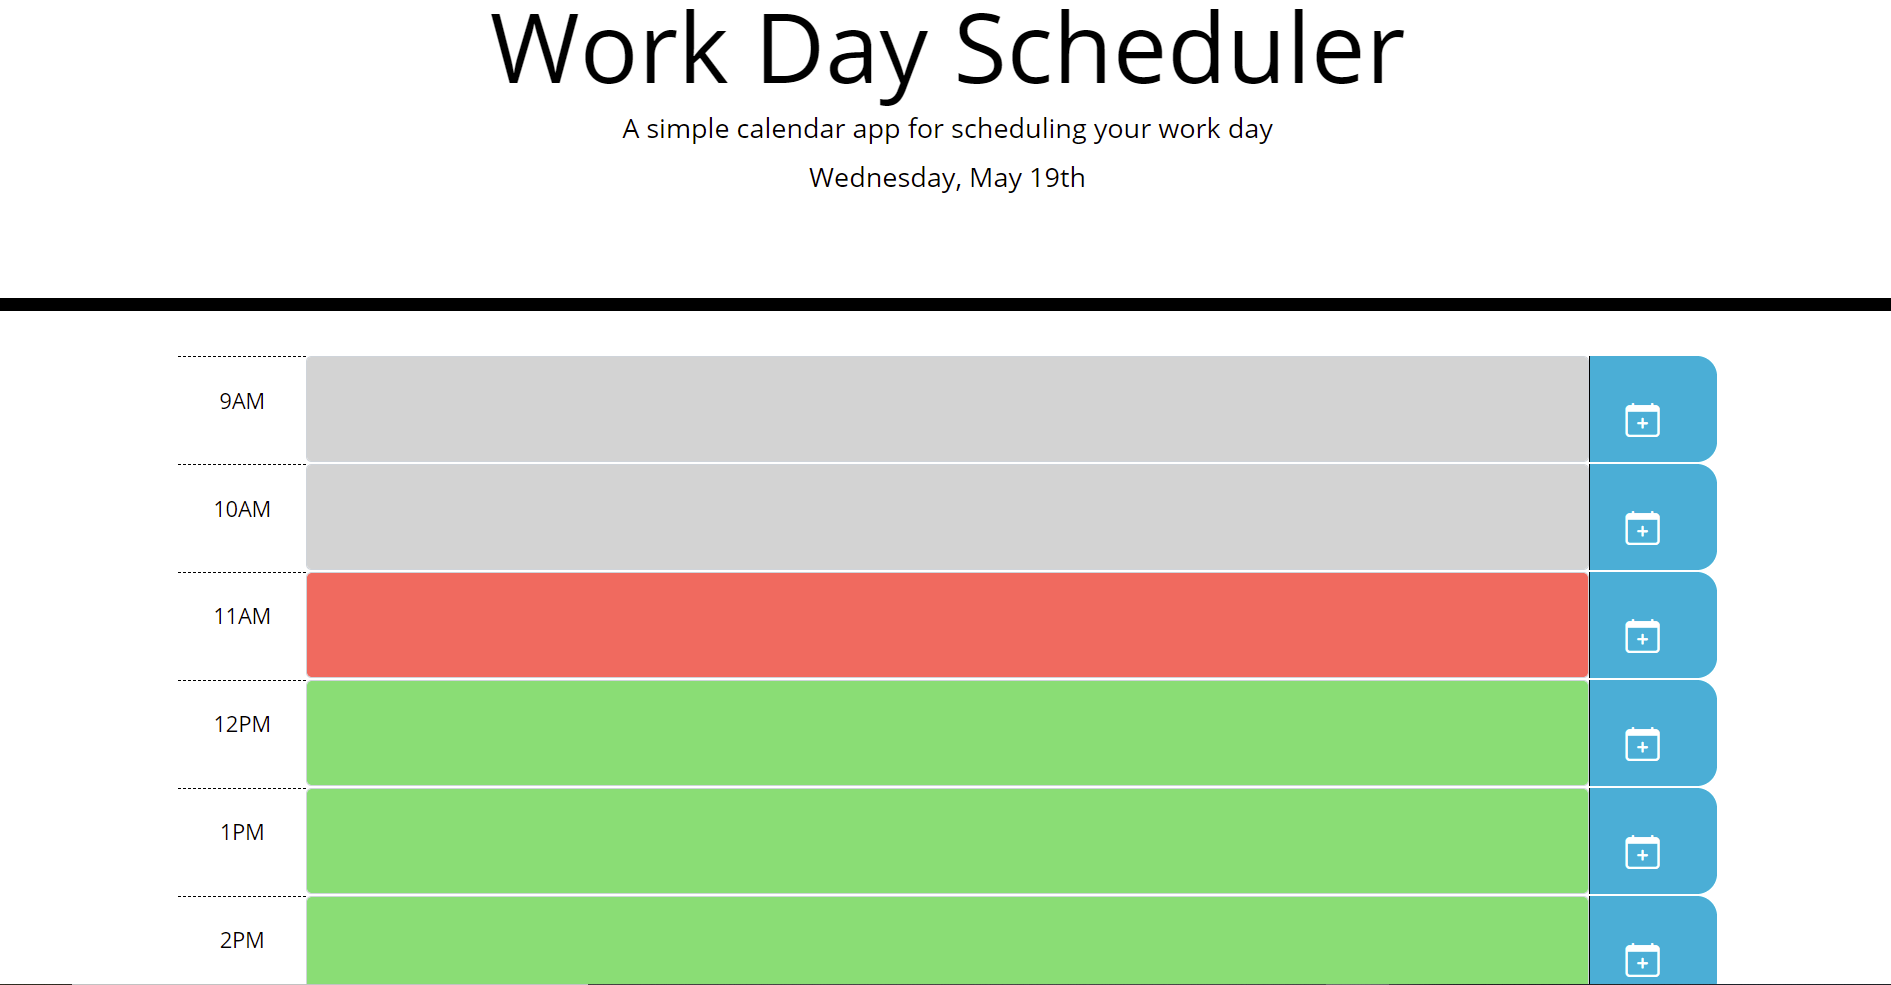
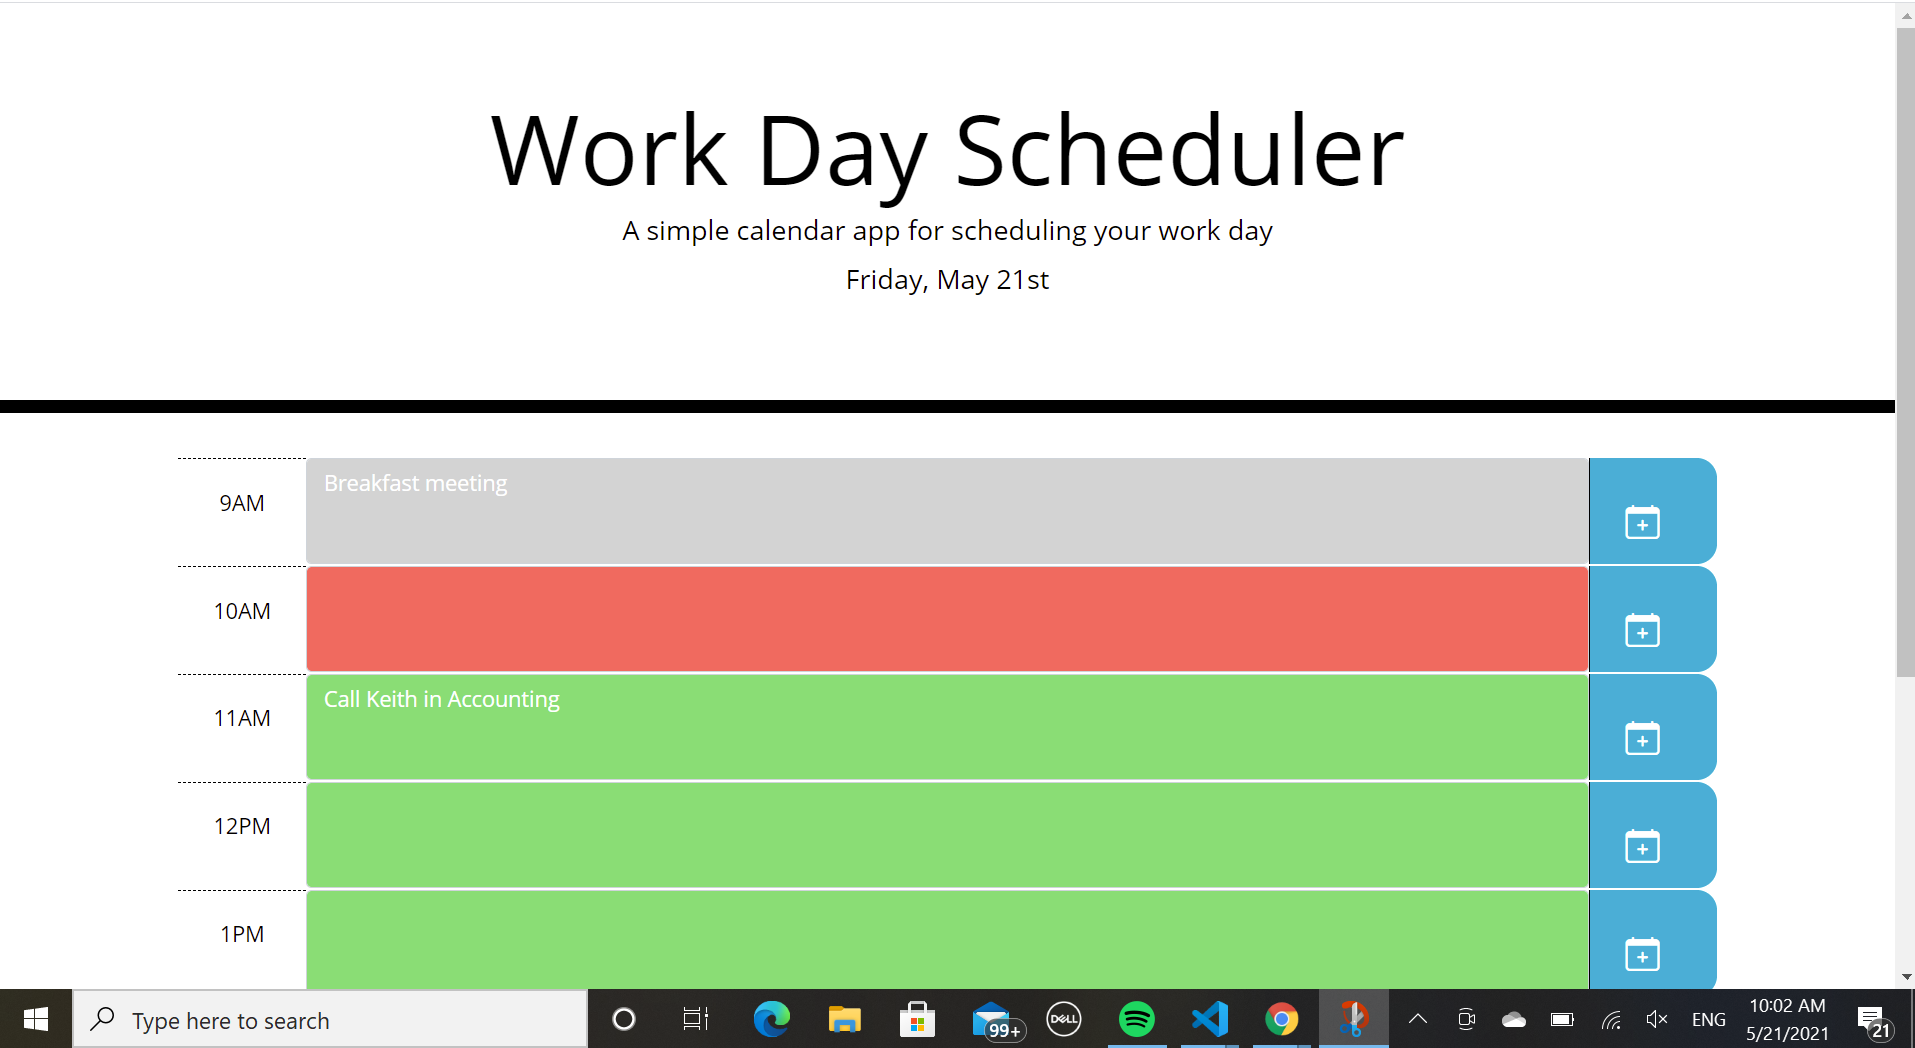
finished README ad updated pictures also added notes to HTML and rest of JS

Changed region(s): [[0.0, 0.0, 1.0, 1.0]]

diff --git a/index.html b/index.html
@@ -27,116 +27,88 @@
     <header class="jumbotron">
       <h1 class="display-3">Work Day Scheduler</h1>
       <p class="lead">A simple calendar app for scheduling your work day</p>
+      <!-- the today moment.js function connects here at "currentDay"-->
       <p id="currentDay" class="lead"></p>
     </header>
+    
+    <!-- grandparent container for body of webpage -->
       <div class="container">
-
+        <!-- one of the 9 parent "rows" for each block of time -->
         <div id="block-9" class="row time-block">
-
+          <!-- child 1 - part of first column in row one, for 9am -->
           <div id="9am" class="hour col-1 text-center time p-4">9AM</div>
-
+          <!-- child 2 - input area for hour 9'd work-day events -->
           <textarea id="text-9" class=" description form-control col-10" aria-label="With textarea"></textarea>
-
+          <!-- child 3 - button for hour 9's input -->
           <a id="btn9" type="button" class="col-1 saveBtn btn-info">
             <i class="bi bi-calendar-plus"></i>    
           </a>
 
         </div>
-
+        <!-- all the parent rows and children are structured the same as 9am just
+        with different ids to specificy which time-block they are in. -->
         <div id="block-10" class="row time-block">
-
           <div id="10am" class="hour col-1 text-center time p-4">10AM</div>
-
           <textarea id="text-10" class="description form-control col-10" aria-label="With textarea"></textarea>
-
           <a id="btn10" type="button" class="col-1 saveBtn btn-info">
             <i class="bi bi-calendar-plus"></i>    
           </a>
-
         </div>
         
         <div id="block-11" class="row time-block">
-        
           <div id="11am" class="hour col-1 text-center time p-4">11AM</div>
-
           <textarea id="text-11"  class="description form-control col-10" aria-label="With textarea"></textarea>
-
           <a id="btn11" type="button" class="col-1 saveBtn btn-info">
             <i class="bi bi-calendar-plus"></i>    
           </a>
-
         </div>
 
         <div id="block-12" class="row time-block">
-        
           <div id="12am" class="hour col-1 text-center time p-4">12PM</div>
-
           <textarea id="text-12" class="description form-control col-10" aria-label="With textarea"></textarea>
-
           <a id="btn12" type="button" class="col-1 saveBtn btn-info">
             <i class="bi bi-calendar-plus"></i>    
           </a>
-
         </div>
 
         <div id="block-13" class="row time-block">
-        
           <div id="1pm" class="hour col-1 text-center time p-4">1PM</div>
-
           <textarea id="text-13" class="description form-control col-10" aria-label="With textarea"></textarea>
-
           <a id="btn1" type="button" class="col-1 saveBtn btn-info">
             <i class="bi bi-calendar-plus"></i>    
           </a>
-
         </div>
 
         <div id="block-14" class="row time-block">
-        
           <div id="2pm" class="hour col-1 text-center time p-4">2PM</div>
-
           <textarea id="text-14" class="description form-control col-10" aria-label="With textarea"></textarea>
-
           <a id="btn2" type="button" class="col-1 saveBtn btn-info">
             <i class="bi bi-calendar-plus"></i>    
           </a>
-
         </div>
 
         <div id="block-15" class="row time-block">
-        
           <div id="3pm" class="hour col-1 text-center time p-4">3PM</div>
-
           <textarea id="text-15" class="description form-control col-10" aria-label="With textarea"></textarea>
-
           <a id="btn3" type="button" class="col-1 saveBtn btn-info">
             <i class="bi bi-calendar-plus"></i>    
           </a>
-
         </div>
 
         <div id="block-16" class="row time-block">
-        
           <div id="4pm" class="hour col-1 text-center time p-4">4PM</div>
-
           <textarea id="text-16" class="description form-control col-10" aria-label="With textarea"></textarea>
-
           <a id="btn4" type="button" class="col-1 saveBtn btn-info">
             <i class="bi bi-calendar-plus"></i>    
           </a>
-
         </div>
 
         <div id="block-17" class="row time-block">
-        
           <div id="5pm" class="hour col-1 text-center time p-4">5PM</div>
-
           <textarea id="text-17" class="description form-control col-10" aria-label="With textarea"></textarea>
-
           <a id="btn5" type="button" class="col-1 saveBtn btn-info">
             <i class="bi bi-calendar-plus"></i>    
           </a>
-
         </div>
 
       </div>

diff --git a/js/script.js b/js/script.js
@@ -42,26 +42,36 @@ function changeBackgroundColor() {
 
 changeBackgroundColor()
 
-
-    $(".saveBtn").click(function(event) {
-        event.preventDefault();
-                
-        var rowParent = $(this).parent();
-        var textChild = $(rowParent).children(".description")
-        var textID = ($(textChild).attr("id"))
-        var eventText = ($(textChild).val());
-        
-        localStorage.setItem(textID, eventText)
+// add an eventlistner(click) to all buttons with class "saveBtn"
+$(".saveBtn").click(function(event) {
+    event.preventDefault();
+    // used this to refer to "saveBtn" to grab the parent which are the "row" divs
+    var rowParent = $(this).parent();
+    // from the rowParent's i want to grab the children with the class "description"
+    var textChild = $(rowParent).children(".description")
+    // from the all of the div's with ".description" I need to set their ids to a var
+    var textID = ($(textChild).attr("id"))
+    // from the all of the div's with ".description" I need to get the input values
+    var eventText = ($(textChild).val());
+    
+    // I can set the textID and eventText as key, value pairs in localStorage
+    localStorage.setItem(textID, eventText)
 
 })
 
-
+// grab values from localStorage and display them on webpage
 function displayLocalStorage () {
+    // i starts at 9 because of the work hours and is less than 18 bc of miliary time
     for(var i = 9; i < 18; i++) {
-    var keyName = "text-" + i;
-    var displayTask = localStorage.getItem(keyName);
-    var keySelector = "#" + keyName;
-    $(keySelector).append(displayTask);
+        //to get the specifc key from local storage I need to add "text-" and "i"
+        var keyName = "text-" + i;
+        // then i can plug in keyName to localStorage.getItem to get the values
+        var displayTask = localStorage.getItem(keyName);
+        // to make keyName a callable Id in jQuery I need to add "#" before it
+        var keySelector = "#" + keyName;
+        // now i can append the correct values(displayTask) to the correct keySelector
+        // (or id) in HTML and have it display on the webpage
+        $(keySelector).append(displayTask);
 }
 }
 

diff --git a/README.md b/README.md
@@ -4,42 +4,46 @@
 https://ksfallon.github.io/Work-Day-Scheduler/
 
 ## Homework Assignment 
-1. create a work day calendar, 9am through 5pm, made from 3 columns, and a row to represent each hour. The first column on the left is for each hour. The second column is for the hour specific event input. The final column is a button that saves the event input. 
-2. Based on the current time of day the even input area will change color if it is in the: past(gray), present(red), future(green).
+1. Create a work day calendar, 9am through 5pm, made from 3 columns, and a row to represent each hour. The first column on the left is for each hour. The middle column is for the hour specific event input. The final column is a button that saves the event input. 
+2. Based on the current time of day the event input area will change color if it is in the: past(gray), present(red), future(green).
 3. The buttons will save the event input and the event input should stay on the page even when refreshed. It can also be changed/updated.
 4. It requires the use of jQuery and Moment.js. to create our functions in JS
 5. Bootstrap can be used in the HTML to create the desired row/column containers.
 
 ## Adding to HTML
-The starter index.html already had the links to jquery, bootstrap, and moment.js so all i really needed to add were my columns and rows.
+The starter index.html already had the links to jquery, bootstrap, and moment.js. So all I really needed to do was add a container with my columns and rows to the body.
 - I used code from bootstrap to create my grandparent container which contained 9 parent rows. For each row I added the class "time-block" from the style.css and also gave it the class "row". 
-- within each parent container were 3 children columns, using bootstrap i was able to give them column lengths and other specifications specific to the individual child, such as "form-control" for text area, to give it some styling in the html. 
-- I also added the appropriate classes to each column from style.css ("hour" for the time column, "description" for the textarea column and "saveBtn for the button column). I did this for all 9 row containers. All of the children shared the same class with corresponding children in other rows, but they all have different IDs to distinguish them.
+- within each parent container were 3 children elements and using bootstrap i was able to give them column lengths and other specifications specific to the individual child, such as "form-control" for text area, to give it some styling in the html. 
+- I also added the appropriate classes to each column from style.css ("hour" for the time column, "description" for the textarea column and "saveBtn for the button column). I did this for all 9 row containers. 
+- All of the children shared the same class with corresponding children in other rows, but they all have different IDs to distinguish them based on time.
 
 ## JavaScript with jQuery and moment.js
-I needed to create 4 functions: display current date, change text color based on time, save input to local storage, display local storage in text input.
+I needed to create 4 functions in JS: display current date, change text color based on time, save input to local storage, display local storage in text input.
 1. To display current Month, Day of the Week and Date in the header was pretty straight forward. I just needed to use the today function from moment.js and distinguish I just wanted these three things: Month(dddd), Day of the Week(MMM) and Date(Do) and provide the html ID so it would be displayed in the right area on the web page.
 ```javascript
 var today = moment();
 $("#currentDay").text(today.format('dddd, MMM Do'));
 ```
 2. I then worked on changing the colors of the background based on the current time. 
-- I used moment.JS and would need to compare that result to the Id of each textarea. I realized that this would be easier if I only got the current hour, because then I dont need to worry about mins and seconds. Later on while writing my for loop i realized if these were all based on **Military time** it would make comparing whether a number is < or = or > MUCH easier.
+- I used moment.JS again and would need to compare that result to the id of each textarea. I realized that this would be easier if I only got the current hour, because then I dont need to worry about minutess and seconds. Later on, while writing my for loop, I realized if the Ids and the moment.js variable were all based on **Military time** it would make comparing whether a number is < or = or > MUCH easier.
 - I created a variable from the current Military time to compare with my ids:
 ```javascript
 var currentHourEl = moment().format("HH");
 ```
-- I needed the IDs to compare with my *currentHourEL*, so I grabbed the ids from all of the "description" classes, split them by the "-" and set that number left over to the variable *blockId* - the ids were "text-9", "text-10", etc.
+- I needed the IDs to compare with my *currentHourEL*, so I grabbed the ids from all of the "description" classes, split them by the "-" and paresed number left over into an integer and set that to the variable *blockId* - the ids were "text-9", "text-10", etc.
 ```javascript
 var blockId = parseInt($(this).attr("id").split("-")[1])
 ```
-- I used jquery each to write my 4 loop, and wrote an if, else if, else statement. 
-    - if was for the past, and i added class past, , else if is for present, and i removed class past and added class present, and else would remove classes past and present and add future.
+- I used jquery each() to write my 4 loop, and wrote an if, else if, else statement. 
+    - if currentHourEl > blockId, and I added class past, , else if currentHourEl === blockId i removed class past and added class present, and else would remove classes past and present and add future.
     - by doing this the color changes as the time changes.
 ![Hour-Colors](https://github.com/ksfallon/Work-Day-Scheduler/blob/main/images%26gifs/WebsiteShowingTime.png)
-GET NEW PICTURE SHOWING CURRENT TIME
 
-3. To save input to local storage, I set a click event to every div with the class "saveBtn" which every hour has. I wanted to save the id from the textarea as the key and the textarea input as the value in local storage in order to be able to apend them properly in my final displayLocalStorage function. To go from the "saveBtn" class of the button div to the "text-i" id of the textarea div required some children to parent and then parent to children variables. But it gets all the correct information perfectly! And once I have the information I want, its set to localStorage.
+3. To save input to local storage, I set a click event to every div with the class "saveBtn" which every hour has. I wanted to save the id from the textarea as the key and the textarea input as the value in local storage. I did this in order to be able to apend them properly in my final displayLocalStorage function. 
+- To go from the "saveBtn" class of the button div to the "text-i" id of the textarea div required some children to parent and then parent to children variables.
+    - children with "saveBtn" class to parent's with "row" class.
+    - parent's with "row" class to chilren with "description" class.
+- Once I have the information, its set to localStorage.
 ```javascript
  var rowParent = $(this).parent();
         var textChild = $(rowParent).children(".description")
@@ -50,16 +54,17 @@ GET NEW PICTURE SHOWING CURRENT TIME
 ```
 ![Local-Storage](https://github.com/ksfallon/Work-Day-Scheduler/blob/main/images%26gifs/pageWithLocalStorage.png)
 
-4. Finally I need to display local storage in text input so it doesn't disappear from sight when the webpage is refreshed. 
-- This one was a little tricky because I wasn't sure how to actually get the key names, the textarea ids, so i could compare them in a for loop to the actual textarea ids. I knew how to do it if i wrote a function for every individual button, but i knew it had to be easier LOL.
-- The things i knew i needed:
-    - a for loop where i = 9, which was our starting time, and i <18 because the calendar stops at 5pm or 17:00 hrs.
+4. Finally I need to display local storage in text input so it doesn't disappear from the screen when the webpage is refreshed. 
+- This one was a little tricky because I wasn't sure how to actually get the key names (which were set to the textarea ids) so I could compare them in a for loop to the html textarea ids. I knew how to do it if I wrote a function for every individual button, but I knew there had to be DRYer code LOL.
+- The things I knew I needed:
+    - a for loop where i = 9, which was our starting time, and i < 18 because the calendar stops at 5pm or 17:00 hrs.
     - I needed to be able to compare the key names to the textarea IDs
-- With some help I was able to get the Key names by simply adding ( "text-" + i ) which was set to the variable *keyName*
-- the next variable *displayTask* needed to get the key value, so just plugging "keyName" into localStorage.getItem()
-- I had to make another variable becaue jquery won't let $("somethign" + var) run as a function
+    - I needed to be able to get the value from each key.
+- With some help I was able to get the key names by simply adding ( "text-" + i ) which was set to the variable *keyName*.
+- the next variable *displayTask* needed to get the key value, which could be done by just plugging "keyName" into localStorage.getItem().
+- I had to make another variable becaue jquery won't let $("#" + variable) run as a function.
     - *keySelector* = "#" + keyName - was created to put the hastag in front of keyName in order to run a function in jquery with the textarea ids!
-- Finally, to append the localStorage to the textarea we have our variables:
+- Finally, to append the localStorage to the textarea we have our variables: keySelector and displayTask!
 
 ```jQuery
  $(keySelector).append(displayTask);
